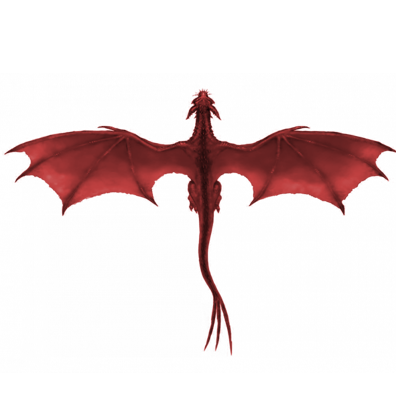
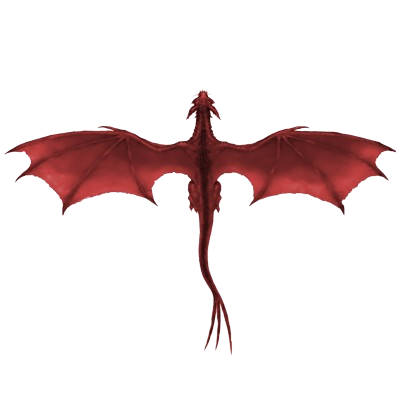
update planet.map

diff --git a/myplugins/planet.map/README.md b/myplugins/planet.map/README.md
@@ -11,6 +11,9 @@ Beside showing the concept there is a storyline, 9 cities/outpost, 9 areas with 
 <br>
 Changelog:<br>
 <br>
+unreleased<br>
+fixed lone pixel in dragon image<br>
+<br>
 2025-08-29<br>
 typo fixes by snoggles<br>
 <br>